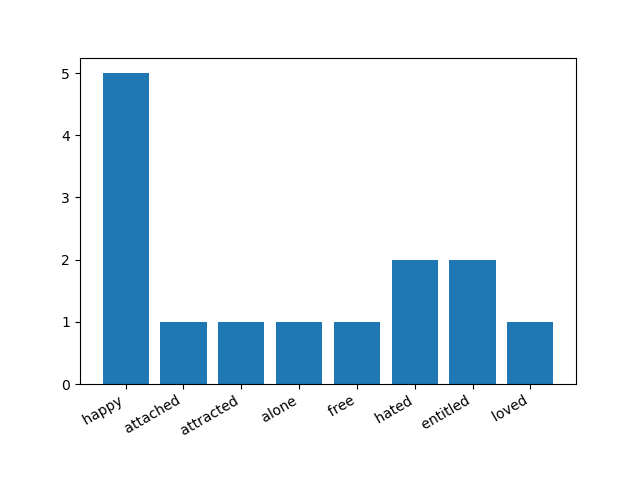
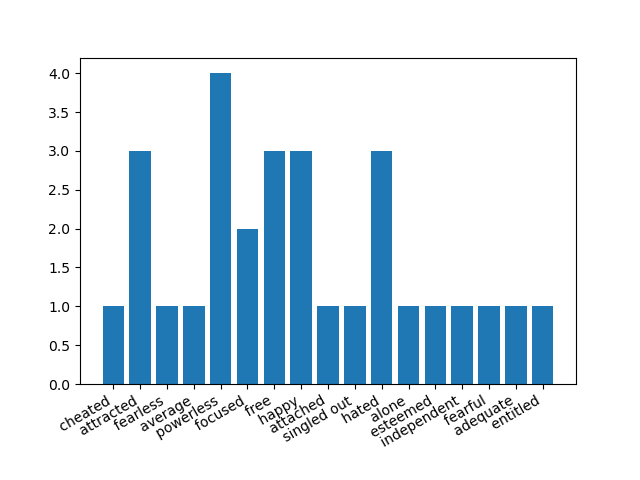
COmpleted

diff --git a/twitter_analysis.py b/twitter_analysis.py
@@ -1,14 +1,18 @@
 import string
 from collections import Counter
-
+import sys
 import matplotlib.pyplot as plt
 
-
+# print(sys.argv[1] + 'Dsdjasfhjhfjkhsfjsf')
 def get_tweets():
     import GetOldTweets3 as got
-    tweetCriteria = got.manager.TweetCriteria().setQuerySearch('CoronaOutbreak') \
-        .setSince("2020-01-01") \
-        .setUntil("2020-04-01") \
+    twt = ''
+    if(len(sys.argv) == 1): twt = 'CoronaOutbreak'
+    else: twt = sys.argv[1]
+    print('This plot is for - ' + twt)
+    tweetCriteria = got.manager.TweetCriteria().setQuerySearch(twt) \
+        .setSince("2019-11-01") \
+        .setUntil("2020-06-01") \
         .setMaxTweets(1000)
     # Creation of list that contains all tweets
     tweets = got.manager.TweetManager.getTweets(tweetCriteria)

diff --git a/main_nltk.py b/main_nltk.py
@@ -2,11 +2,13 @@ import string
 from collections import Counter
 
 import matplotlib.pyplot as plt
+import nltk
 from nltk.corpus import stopwords
 from nltk.sentiment.vader import SentimentIntensityAnalyzer
 from nltk.stem import WordNetLemmatizer
 from nltk.tokenize import word_tokenize
 
+nltk.download('all')
 text = open('read.txt', encoding='utf-8').read()
 lower_case = text.lower()
 cleaned_text = lower_case.translate(str.maketrans('', '', string.punctuation))

diff --git a/main.py b/main.py
@@ -1,8 +1,10 @@
 import string
 from collections import Counter
+import sys
 
 import matplotlib.pyplot as plt
 
+# print(sys.argv[1] + '**********************')
 # reading text file
 text = open("read.txt", encoding="utf-8").read()
 

diff --git a/settings.py b/settings.py
@@ -1,2 +1,2 @@
 import nltk
-nltk.download()
+nltk.download('all')
